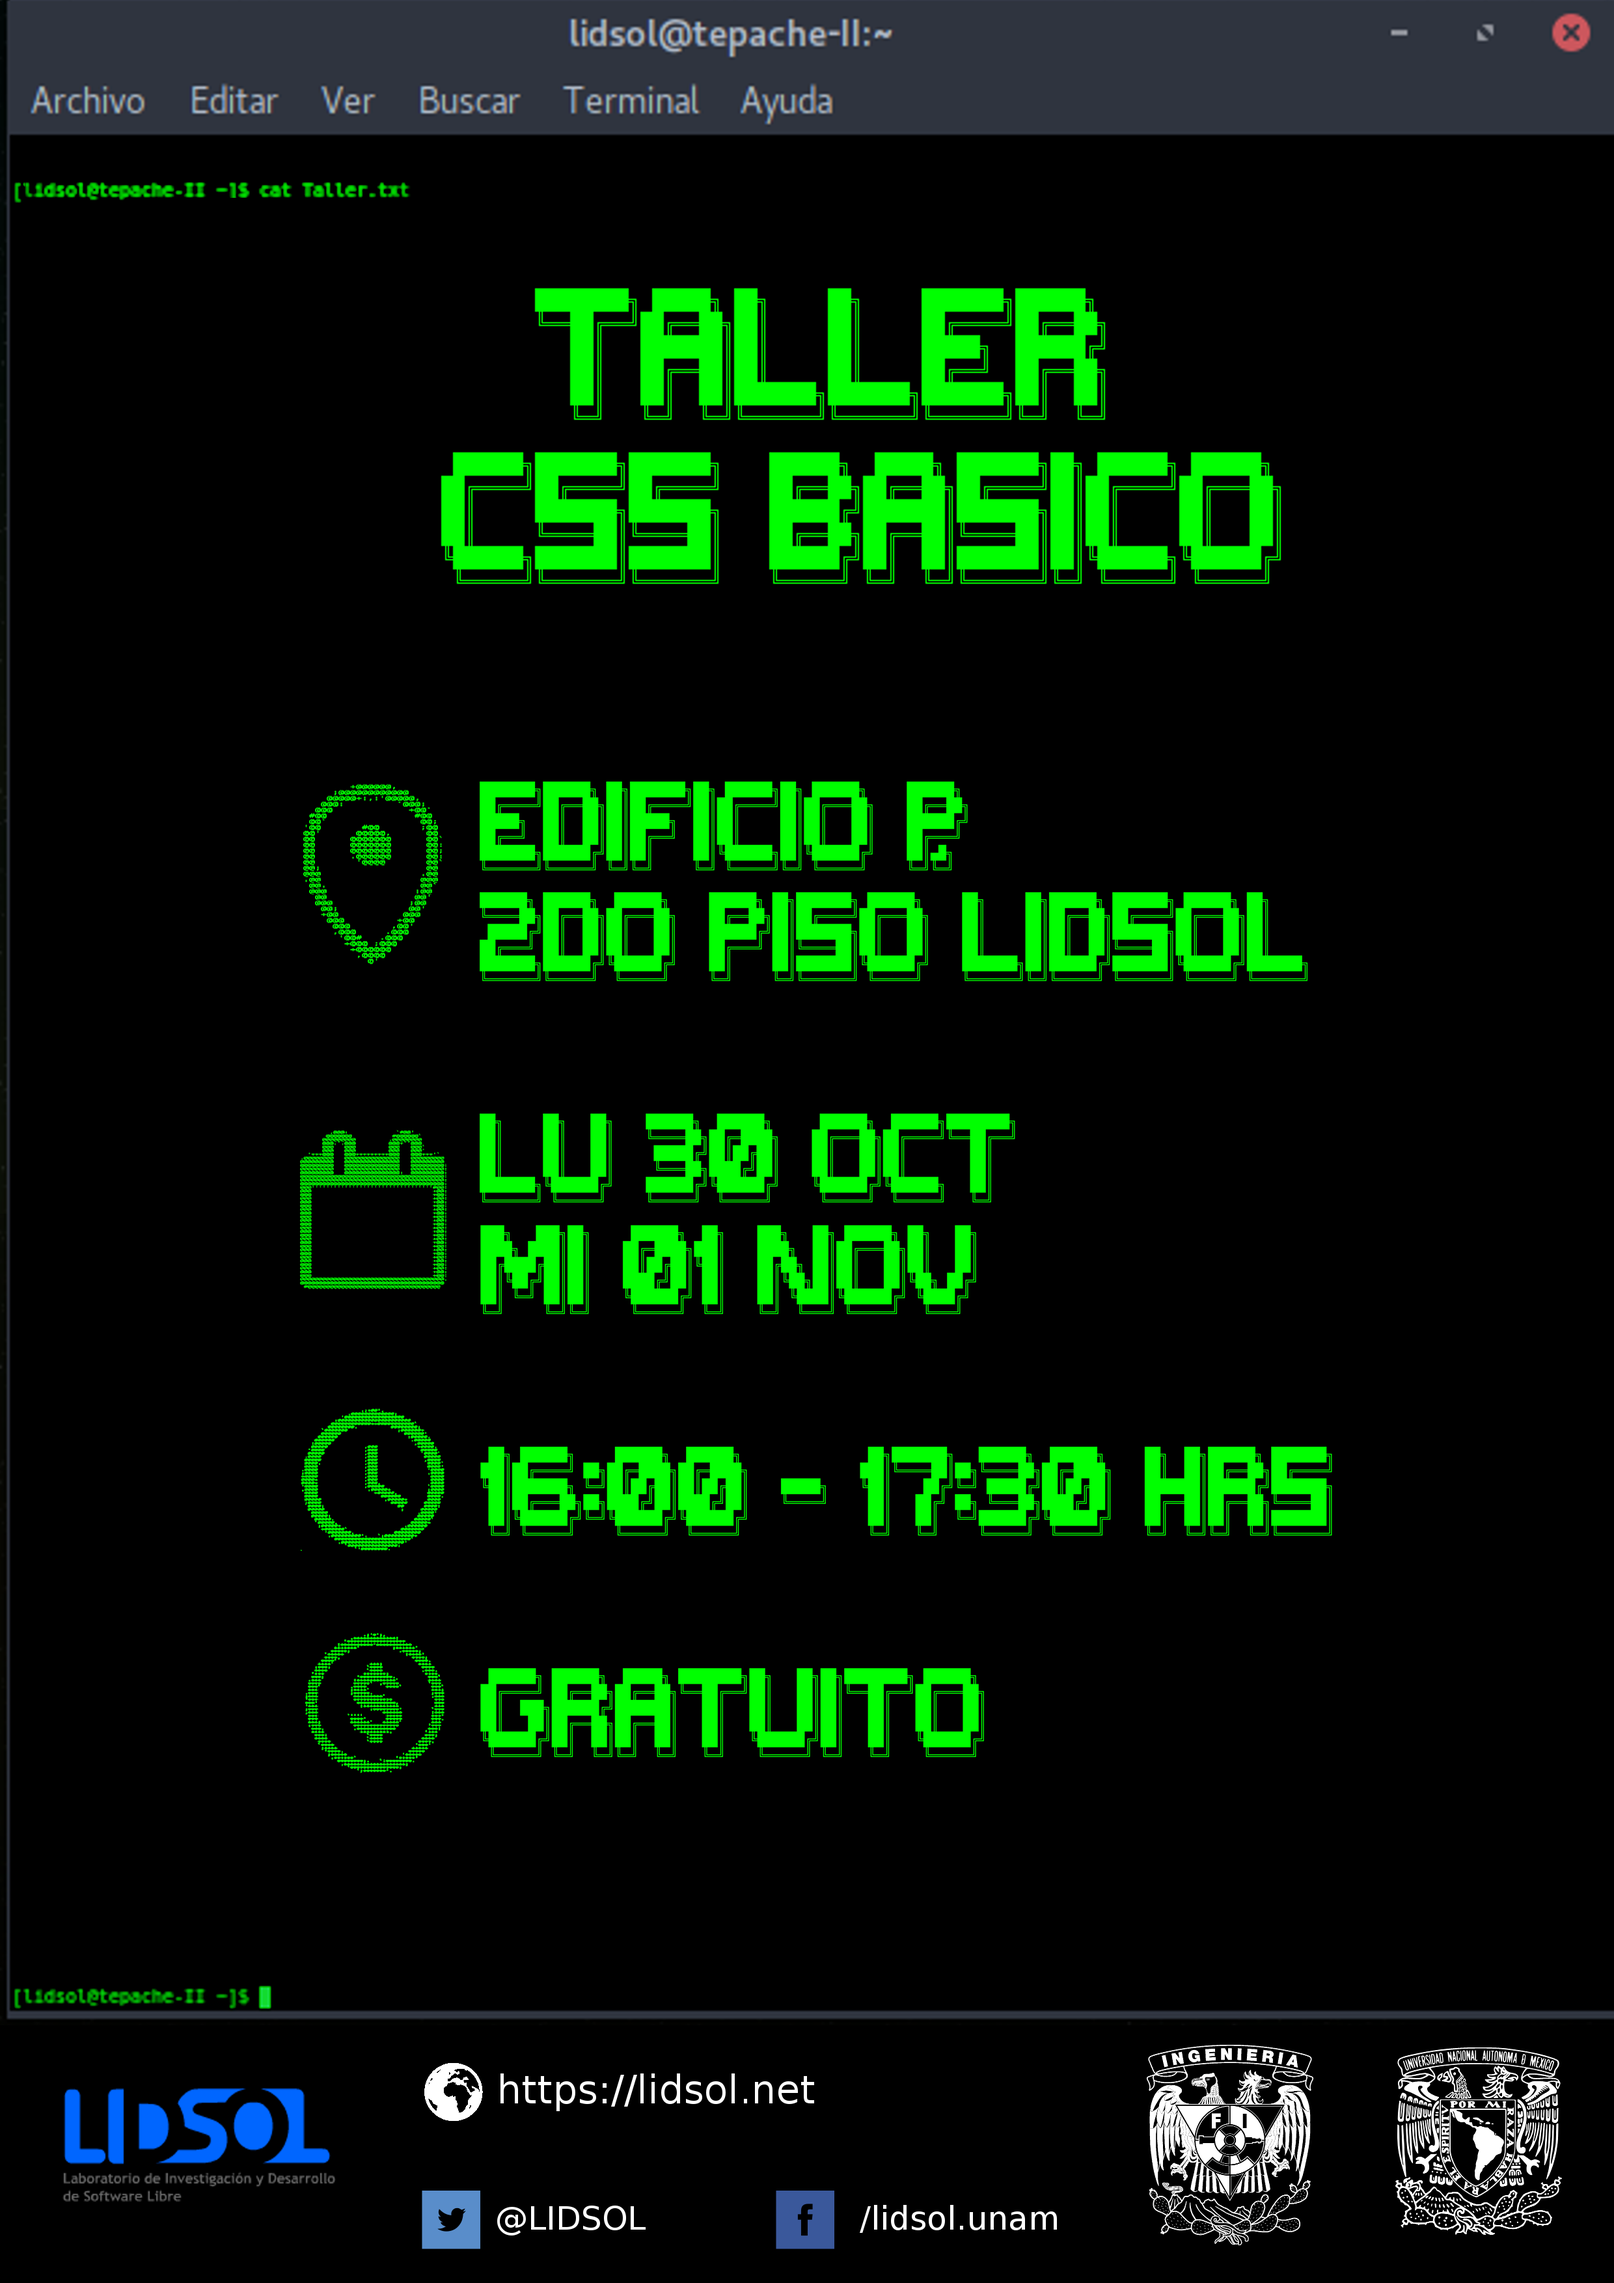
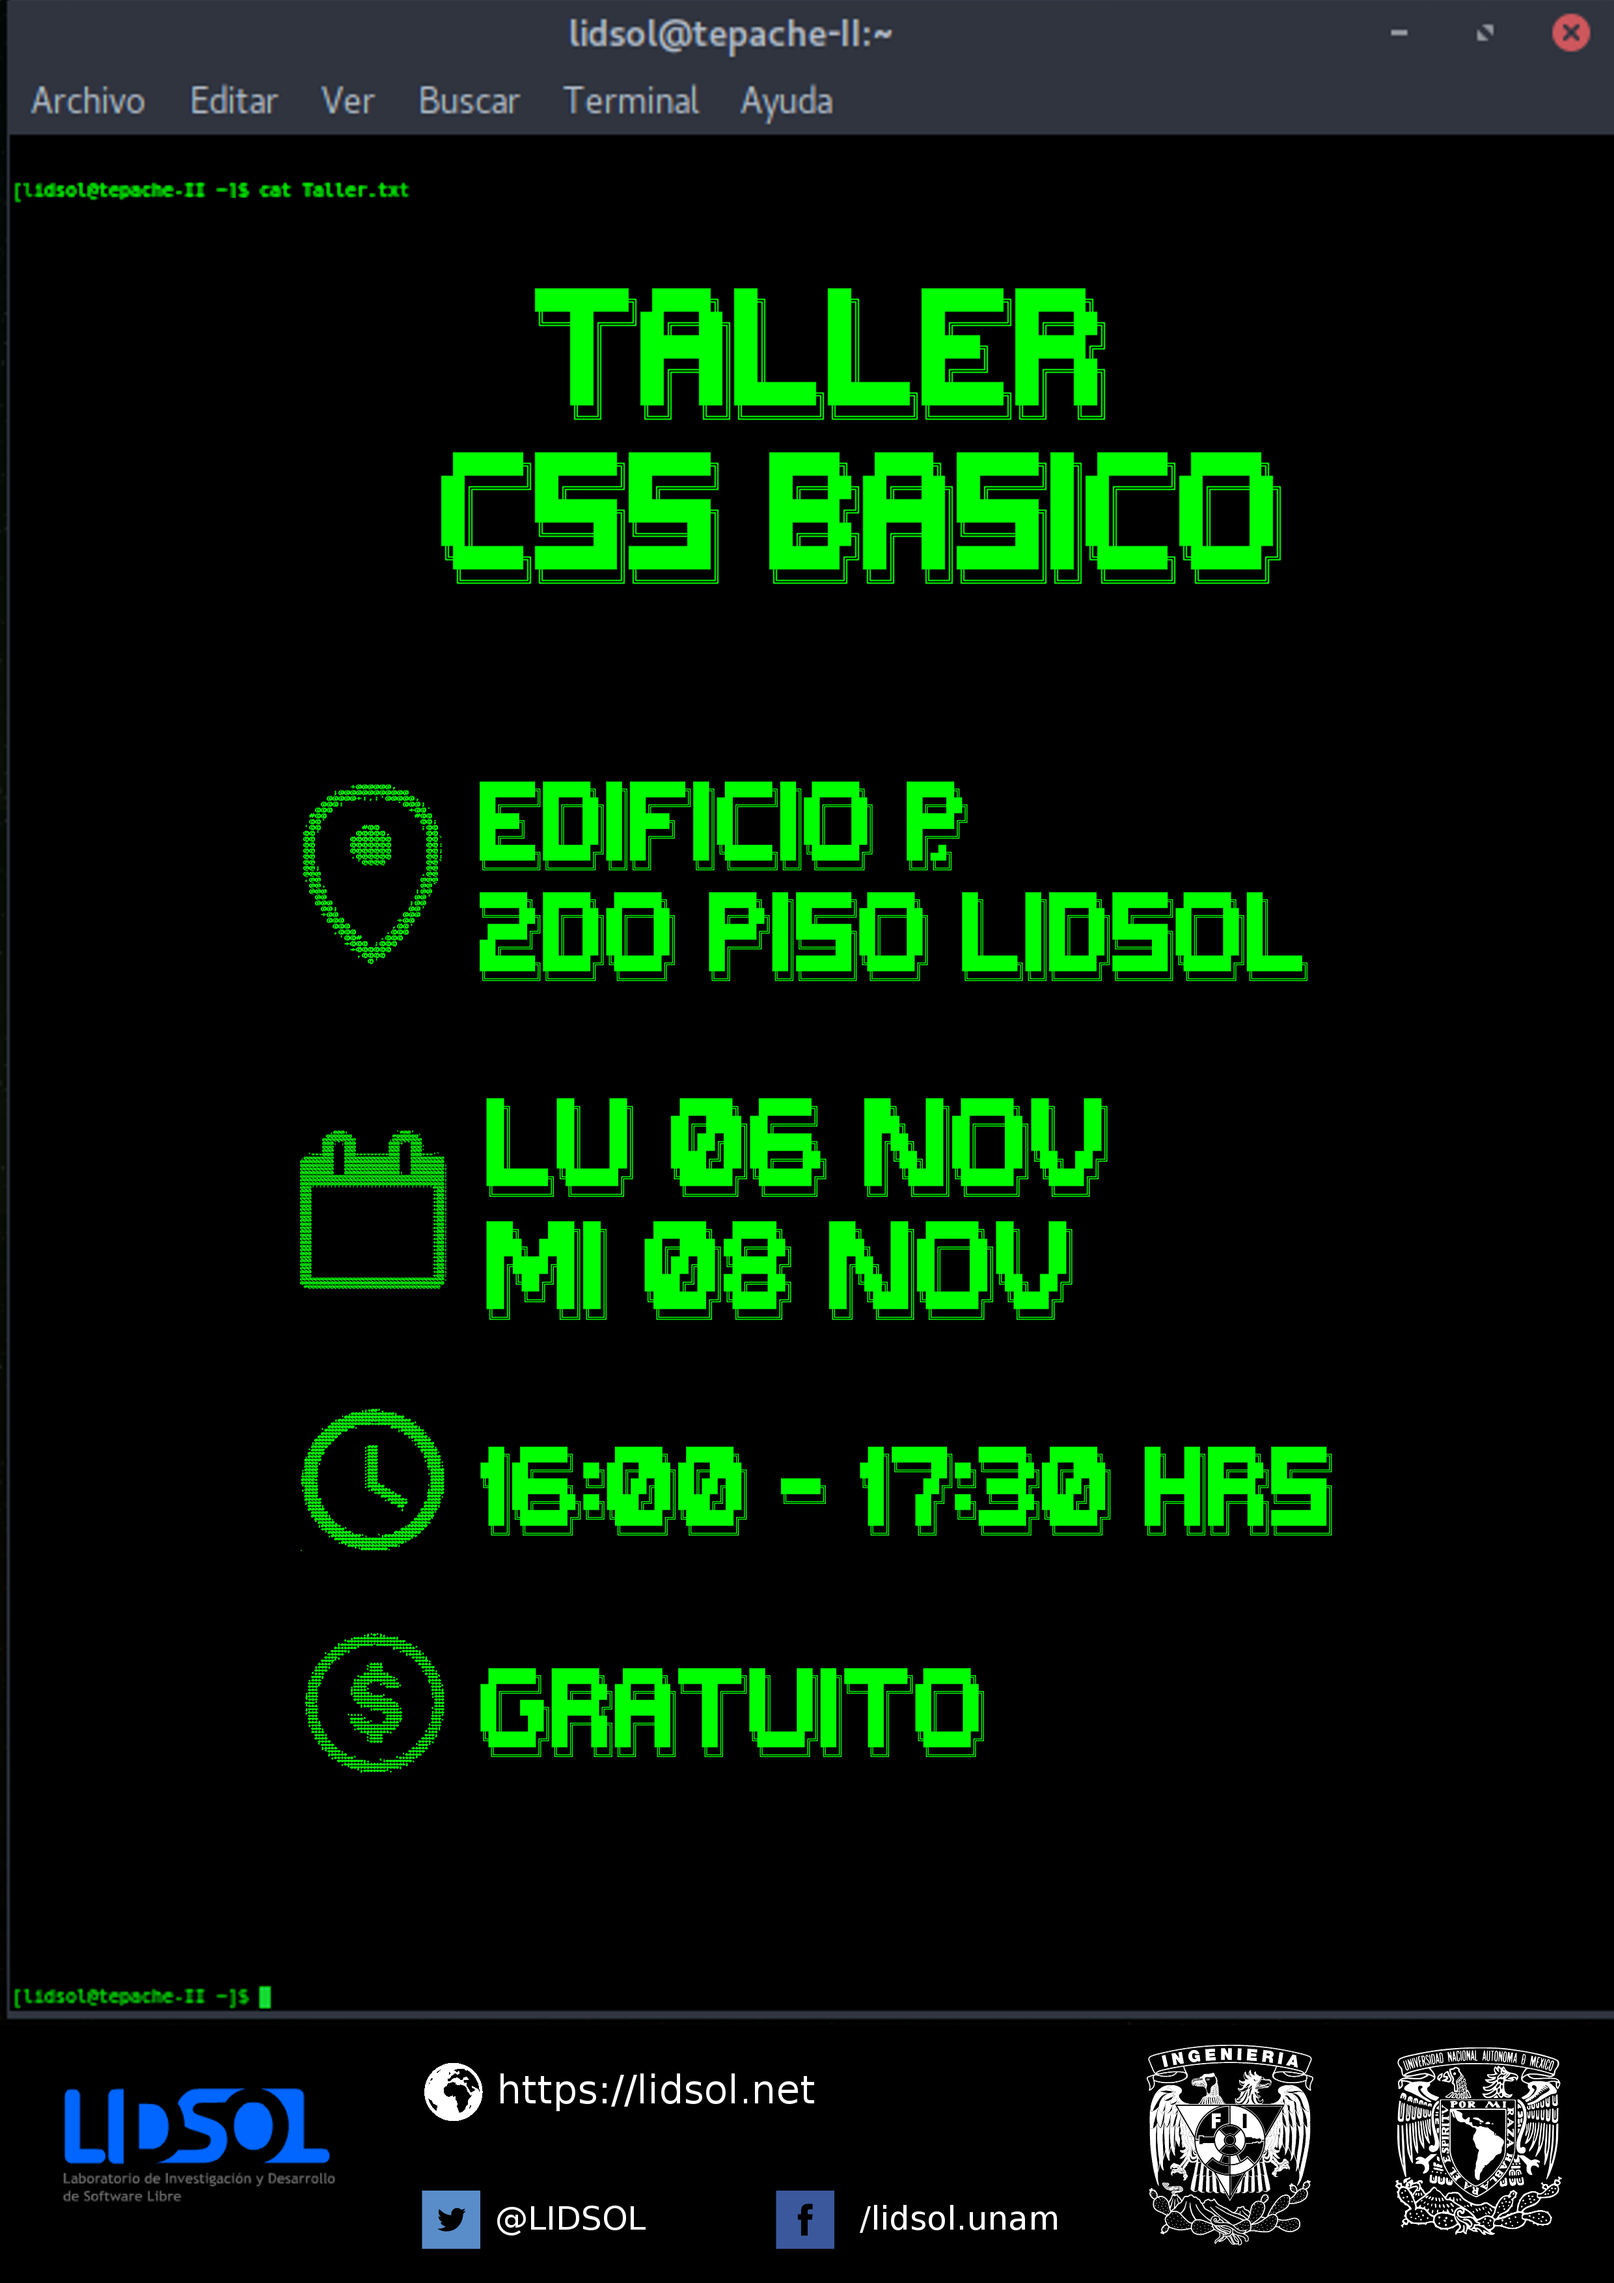
Se cambiaron fechas

Changed region(s): [[0.2794, 0.4661, 0.6831, 0.5904]]

diff --git a/talleres/0002_css_basico.html b/talleres/0002_css_basico.html
@@ -115,7 +115,7 @@ ForBetterWeb.com is based on the [Bootstrap](http://getbootstrap.com/) framework
 <section id="about" class="container-fluid">
     <div class="row">
         <div class="col-sm-6 split-padding3">
-            <h2 class="headerline">Octubre/Noviembre 2018-1 - HTML Básico</h2>
+            <h2 class="headerline">Noviembre 2018-1 - CSS Básico</h2>
             <br/>
             <!--<h4 class="headerline">:D</h4>-->
                 <ul>
@@ -133,7 +133,7 @@ ForBetterWeb.com is based on the [Bootstrap](http://getbootstrap.com/) framework
                     <li>¿Qué sigue?</li>
                 </ul>
               </br>
-              Impartido por: Emilio Cabrera / @emili1625 en Octubre/Noviembre 2018-1
+              Impartido por: Emilio Cabrera / @emilio1625 en Octubre/Noviembre 2018-1
         </div>
 
 
@@ -174,7 +174,7 @@ ForBetterWeb.com is based on the [Bootstrap](http://getbootstrap.com/) framework
         </small>
 
         <p><i class="fa fa-map-marker"></i>  Edificio P , 2do piso LIDSOL, Conjunto Sur (Anexo) de Ingeniería, Ciudad Universitaria, Ciudad de México. </p>
-        <p>Puedes consultar el horario actual del laboratorio <a href="./horarios/horario_lidsol_2018-1.pdf" target="_blank">aquí</a> o <a href="https://goo.gl/w21mKN" target="_blank"> aquí</a>.<p/>
+        <p>Puedes consultar el horario actual del laboratorio <a href="../horarios/horario_lidsol_2018-1.pdf" target="_blank">aquí</a> o <a href="https://goo.gl/w21mKN" target="_blank"> aquí</a>.<p/>
         <p class="text-muted">LIDSOL 2017</p>
     </div>
 </section>

diff --git a/talleres/index.html b/talleres/index.html
@@ -120,7 +120,7 @@ ForBetterWeb.com is based on the [Bootstrap](http://getbootstrap.com/) framework
             <!--<h4 class="headerline">:D</h4>-->
             <p>Listado de talleres que se imparten en el laboratorio.</p>
             <p>Se imparten dependiendo de la disponibilidad de voluntarios y participantes en el laboratorio.</p>
-            <h4> <a href="0002_css_basico.html">Octubre/Noviembre 2018-1 - CSS Básico</a></h4>
+            <h4> <a href="0002_css_basico.html">Noviembre 2018-1 - CSS Básico</a></h4>
         </div>
     </div>
 </section>
